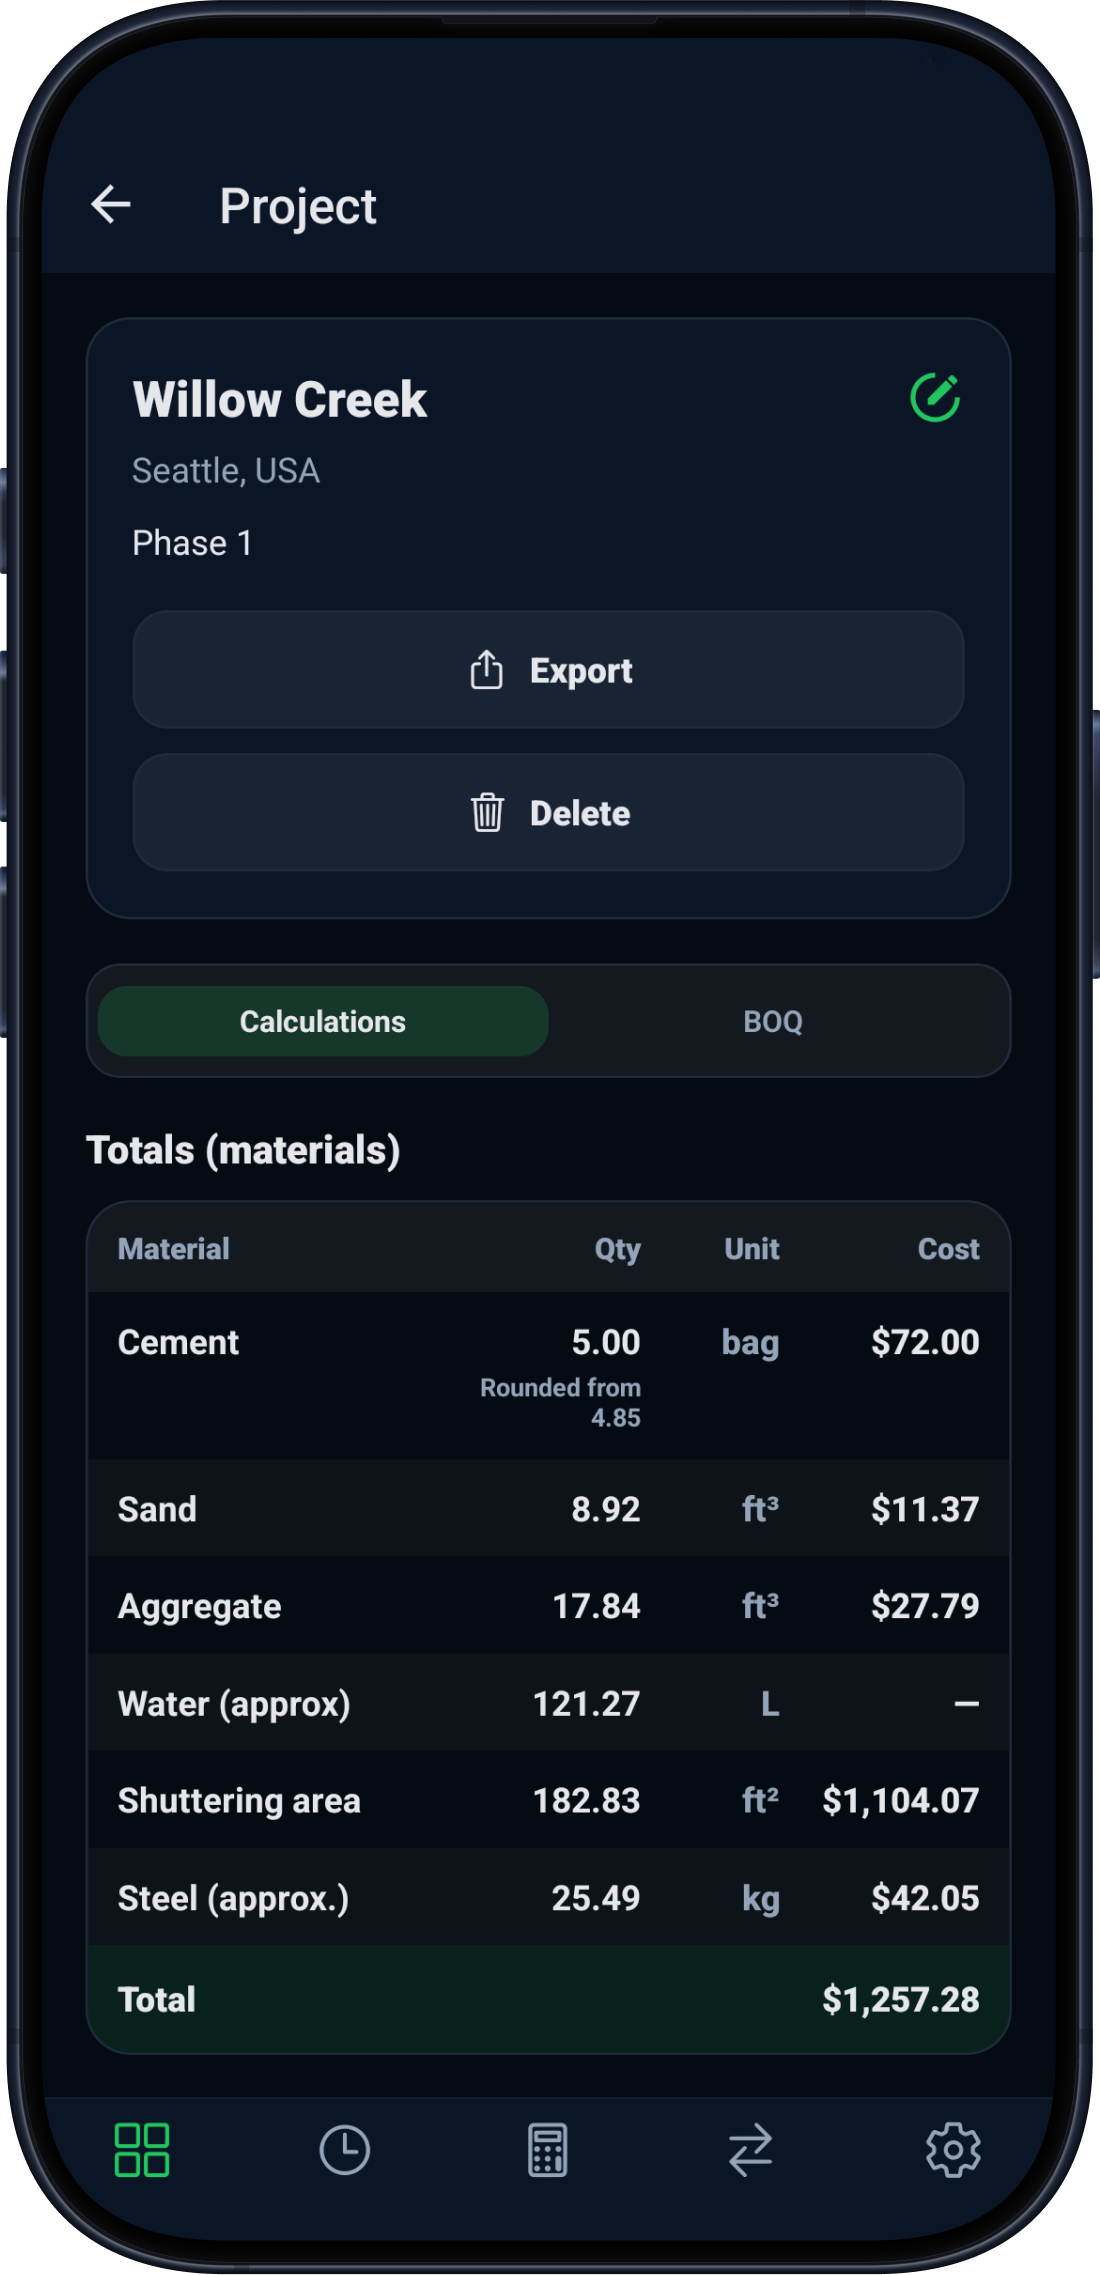
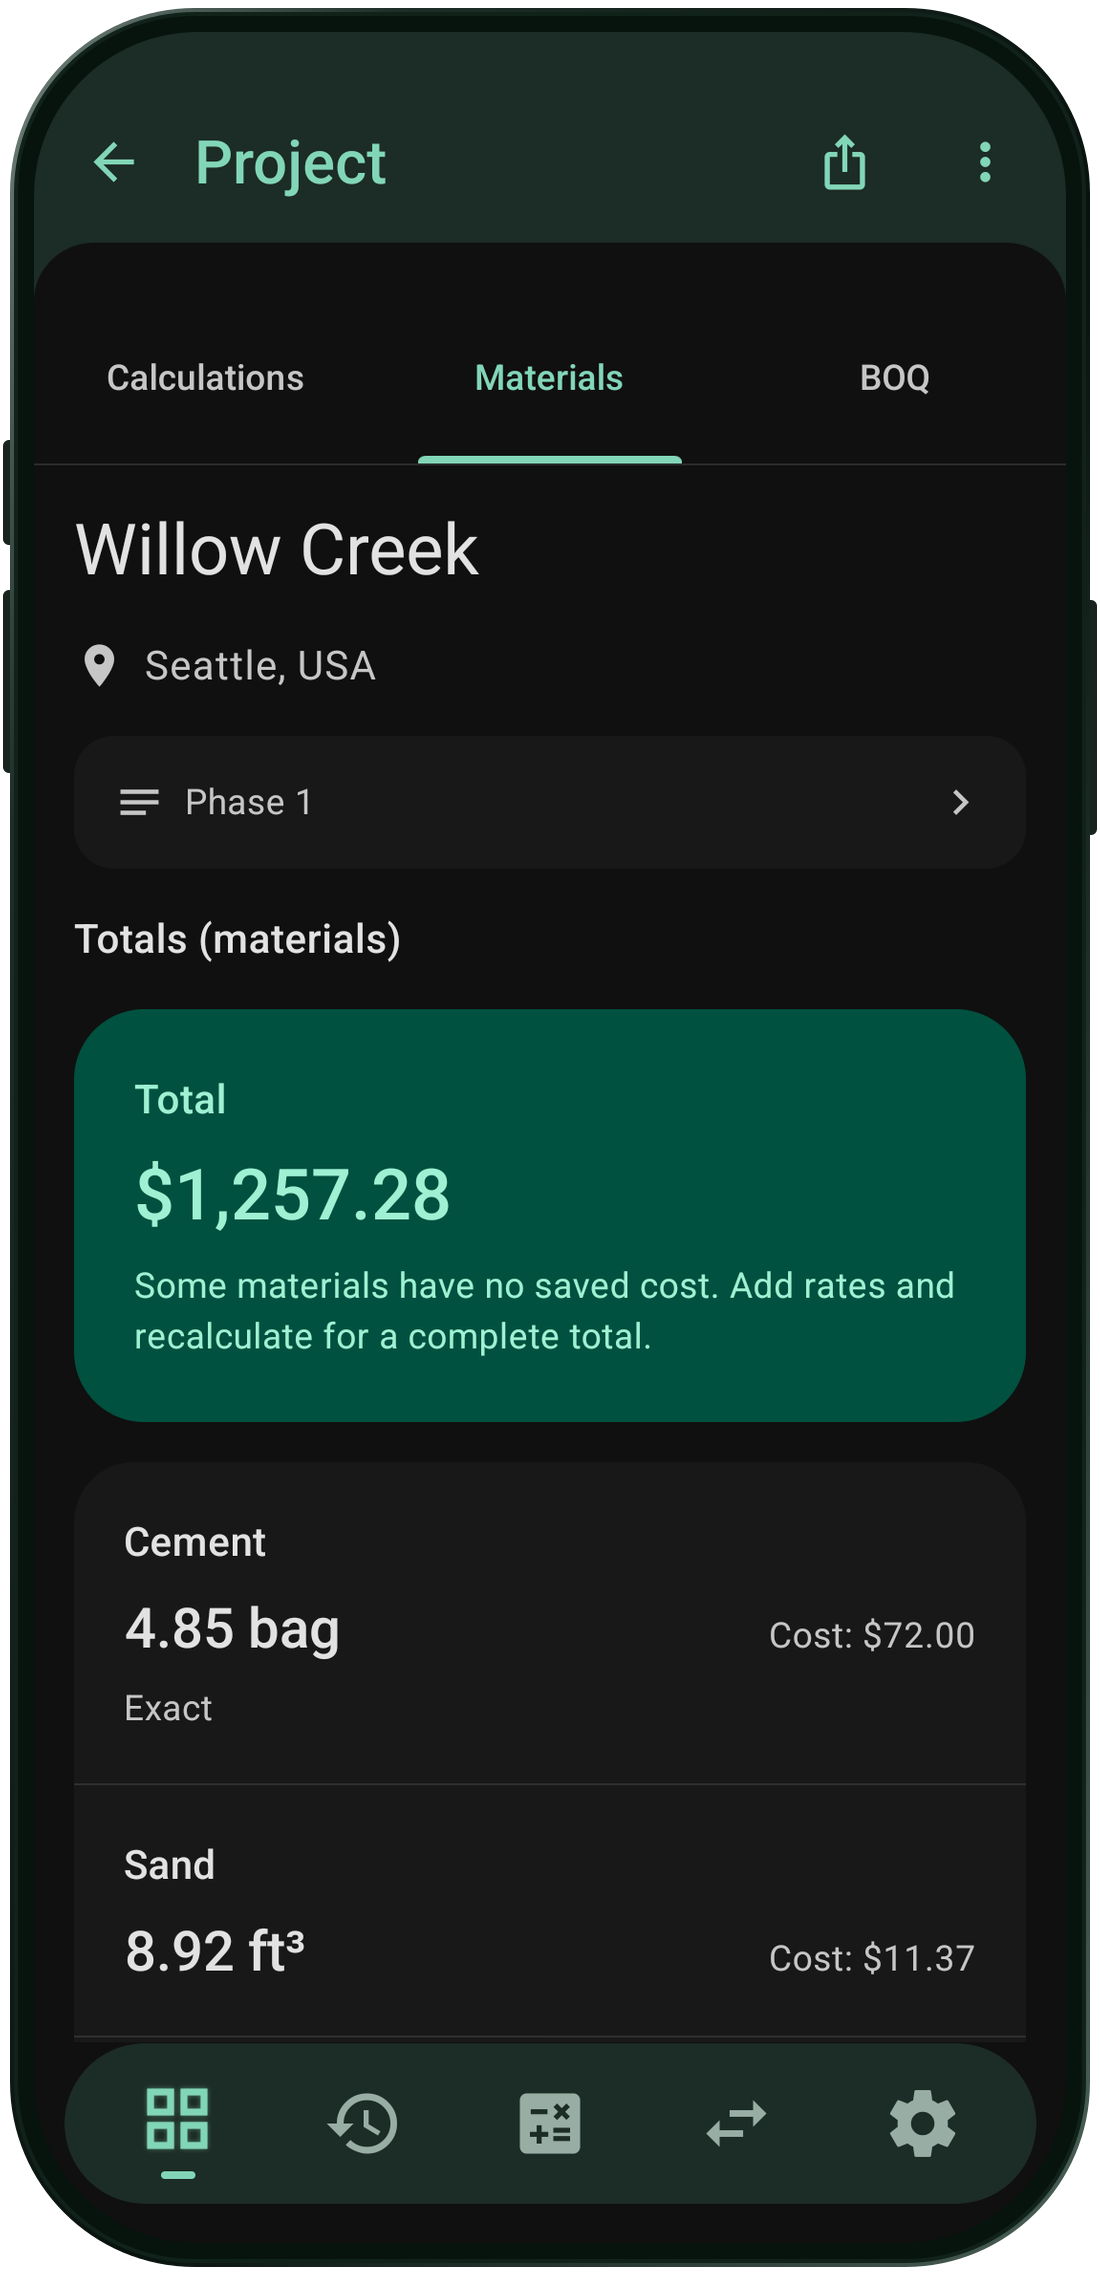
New UI

diff --git a/index.html b/index.html
@@ -248,7 +248,7 @@
 
             <figure class="device device--left" aria-hidden="true">
               <img
-                src="/public/images/showcase/Light/scientific-calculator.png"
+                src="/public/images/showcase/Light/scientific-calculator.png?v=m3-20261030"
                 data-showcase="scientific-calculator.png"
                 width="1100"
                 height="2275"
@@ -258,7 +258,7 @@
             </figure>
             <figure class="device device--right" aria-hidden="true">
               <img
-                src="/public/images/showcase/Light/figma-replace-project-summary.png"
+                src="/public/images/showcase/Light/figma-replace-project-summary.png?v=m3-20261030"
                 data-showcase="figma-replace-project-summary.png"
                 width="1100"
                 height="2275"
@@ -268,11 +268,11 @@
             </figure>
             <figure class="device device--main">
               <img
-                src="/public/images/showcase/Light/home-calculators.png"
+                src="/public/images/showcase/Light/home-calculators.png?v=m3-20261030"
                 data-showcase="home-calculators.png"
                 width="1100"
                 height="2275"
-                alt="CivilCalc Pro calculator library with Quick Estimate and construction calculator cards"
+                alt="CivilCalc Pro calculator library with construction categories and material illustrations"
                 loading="eager"
                 fetchpriority="high"
               />
@@ -380,7 +380,7 @@
                 type="button"
                 class="workflow-step reveal"
                 data-showcase="figma-calc-screen.png"
-                data-alt="CivilCalc Pro scientific calculator"
+                data-alt="CivilCalc Pro formwork beam calculator with dimension inputs and a shuttering diagram"
                 data-figure="FIG 03 / CALCULATE"
                 aria-pressed="false"
               >
@@ -414,7 +414,7 @@
                 type="button"
                 class="workflow-step reveal"
                 data-showcase="figma-replace-boq-export.png"
-                data-alt="CivilCalc Pro bill of quantities with PDF and CSV export"
+                data-alt="CivilCalc Pro bill of quantities with material costs and export action"
                 data-figure="FIG 05 / DELIVER"
                 aria-pressed="false"
               >
@@ -436,7 +436,7 @@
               <div class="screen-window">
                 <img
                   id="workflow-screen"
-                  src="/public/images/showcase/Light/rcc-library.png"
+                  src="/public/images/showcase/Light/rcc-library.png?v=m3-20261030"
                   data-showcase="rcc-library.png"
                   width="1100"
                   height="2275"
@@ -562,7 +562,7 @@
           <figure class="tour-card tour-card--tall">
             <div class="tour-image">
               <img
-                src="/public/images/showcase/Light/history.png"
+                src="/public/images/showcase/Light/history.png?v=m3-20261030"
                 data-showcase="history.png"
                 width="1100"
                 height="2275"
@@ -575,7 +575,7 @@
           <figure class="tour-card">
             <div class="tour-image">
               <img
-                src="/public/images/showcase/Light/unit-converter.png"
+                src="/public/images/showcase/Light/unit-converter.png?v=m3-20261030"
                 data-showcase="unit-converter.png"
                 width="1100"
                 height="2275"
@@ -588,11 +588,11 @@
           <figure class="tour-card tour-card--wide">
             <div class="tour-image tour-image--summary">
               <img
-                src="/public/images/showcase/Light/figma-replace-project-summary.png"
+                src="/public/images/showcase/Light/figma-replace-project-summary.png?v=m3-20261030"
                 data-showcase="figma-replace-project-summary.png"
                 width="1100"
                 height="2275"
-                alt="Placeholder phone frame for the CivilCalc Pro project material summary"
+                alt="CivilCalc Pro project material summary with quantities and saved costs"
                 loading="lazy"
               />
             </div>
@@ -601,11 +601,11 @@
           <figure class="tour-card">
             <div class="tour-image tour-image--boq">
               <img
-                src="/public/images/showcase/Light/figma-replace-boq-export.png"
+                src="/public/images/showcase/Light/figma-replace-boq-export.png?v=m3-20261030"
                 data-showcase="figma-replace-boq-export.png"
                 width="1100"
                 height="2275"
-                alt="Placeholder phone frame for CivilCalc Pro bill of quantities and export actions"
+                alt="CivilCalc Pro bill of quantities with material costs and export action"
                 loading="lazy"
               />
             </div>
@@ -805,6 +805,7 @@
     <script>
       (function () {
         var root = document.documentElement;
+        var showcaseVersion = "m3-20261030";
         var year = document.getElementById("year");
         if (year) year.textContent = new Date().getFullYear();
 
@@ -821,7 +822,9 @@
                 "/public/images/showcase/" +
                 showcaseFolder +
                 "/" +
-                image.dataset.showcase;
+                image.dataset.showcase +
+                "?v=" +
+                showcaseVersion;
             });
           document
             .querySelectorAll("[data-theme-toggle]")
@@ -863,7 +866,9 @@
               "/public/images/showcase/" +
               showcaseFolder +
               "/" +
-              step.dataset.showcase;
+              step.dataset.showcase +
+              "?v=" +
+              showcaseVersion;
             workflowImage.alt = step.dataset.alt;
             if (workflowFigure)
               workflowFigure.textContent = step.dataset.figure;

diff --git a/public/images/showcase/README.md b/public/images/showcase/README.md
@@ -1,26 +1,30 @@
 # Website showcase images
 
-These files are presentation copies of the transparent phone-frame exports in
-`public/images/screenshots/Light` and `public/images/screenshots/Dark`. Keep the
-same `1100 x 2275` canvas, transparent frame, filename, and Light/Dark folders
-when replacing them.
+These are current app captures in transparent phone frames, with separate
+Light and Dark versions. The website switches the images with its theme.
+Keep the `1100 x 2275` canvas, transparent corners, filenames, and Light/Dark
+folders when replacing them.
 
-The following files are intentional stand-ins. Replace each one with its
-matching Figma export later; no HTML or CSS changes will be needed:
-
-| File in both theme folders | Figma screen to export |
+| File in both theme folders | App screen |
 | --- | --- |
+| `home-calculators.png` | Calculator home and construction categories |
+| `rcc-library.png` | RCC calculator library |
+| `figma-calc-screen.png` | Formwork: Beam (3 sides) |
+| `scientific-calculator.png` | Scientific calculator with an example result |
 | `figma-replace-projects-list.png` | Saved Projects list |
-| `figma-replace-project-summary.png` | Project summary with material totals |
-| `figma-replace-boq-export.png` | BOQ screen with PDF/CSV export actions |
+| `figma-replace-project-summary.png` | Project Materials tab with totals |
+| `figma-replace-boq-export.png` | Project BOQ with export action |
+| `history.png` | Saved calculation history |
+| `unit-converter.png` | Converter categories |
 
-The other filenames already point to matching app screens:
+The legacy `figma-` filenames are retained for stable website references; they
+now contain matching app screens, not placeholders. OS status and gesture
+bars are removed, with breathing room preserved below the app navigation.
+Currency-bearing examples use USD consistently for the Seattle project.
 
-- `home-calculators.png`
-- `rcc-library.png`
-- `history.png`
-- `scientific-calculator.png`
-- `unit-converter.png`
+Do not replace these files with unframed device captures. The reproducible
+frame compositor and raw Light/Dark captures are in the sibling app checkout:
+`civil-calc-pro/output/website-showcase/build-showcase.cjs`.
 
-Do not put raw device screenshots in this folder. The website is designed for
-the Figma-exported transparent phone frames.
+When refreshing the assets, update the `showcaseVersion` cache key and initial
+image URLs in `index.html` so returning visitors receive the new images.
